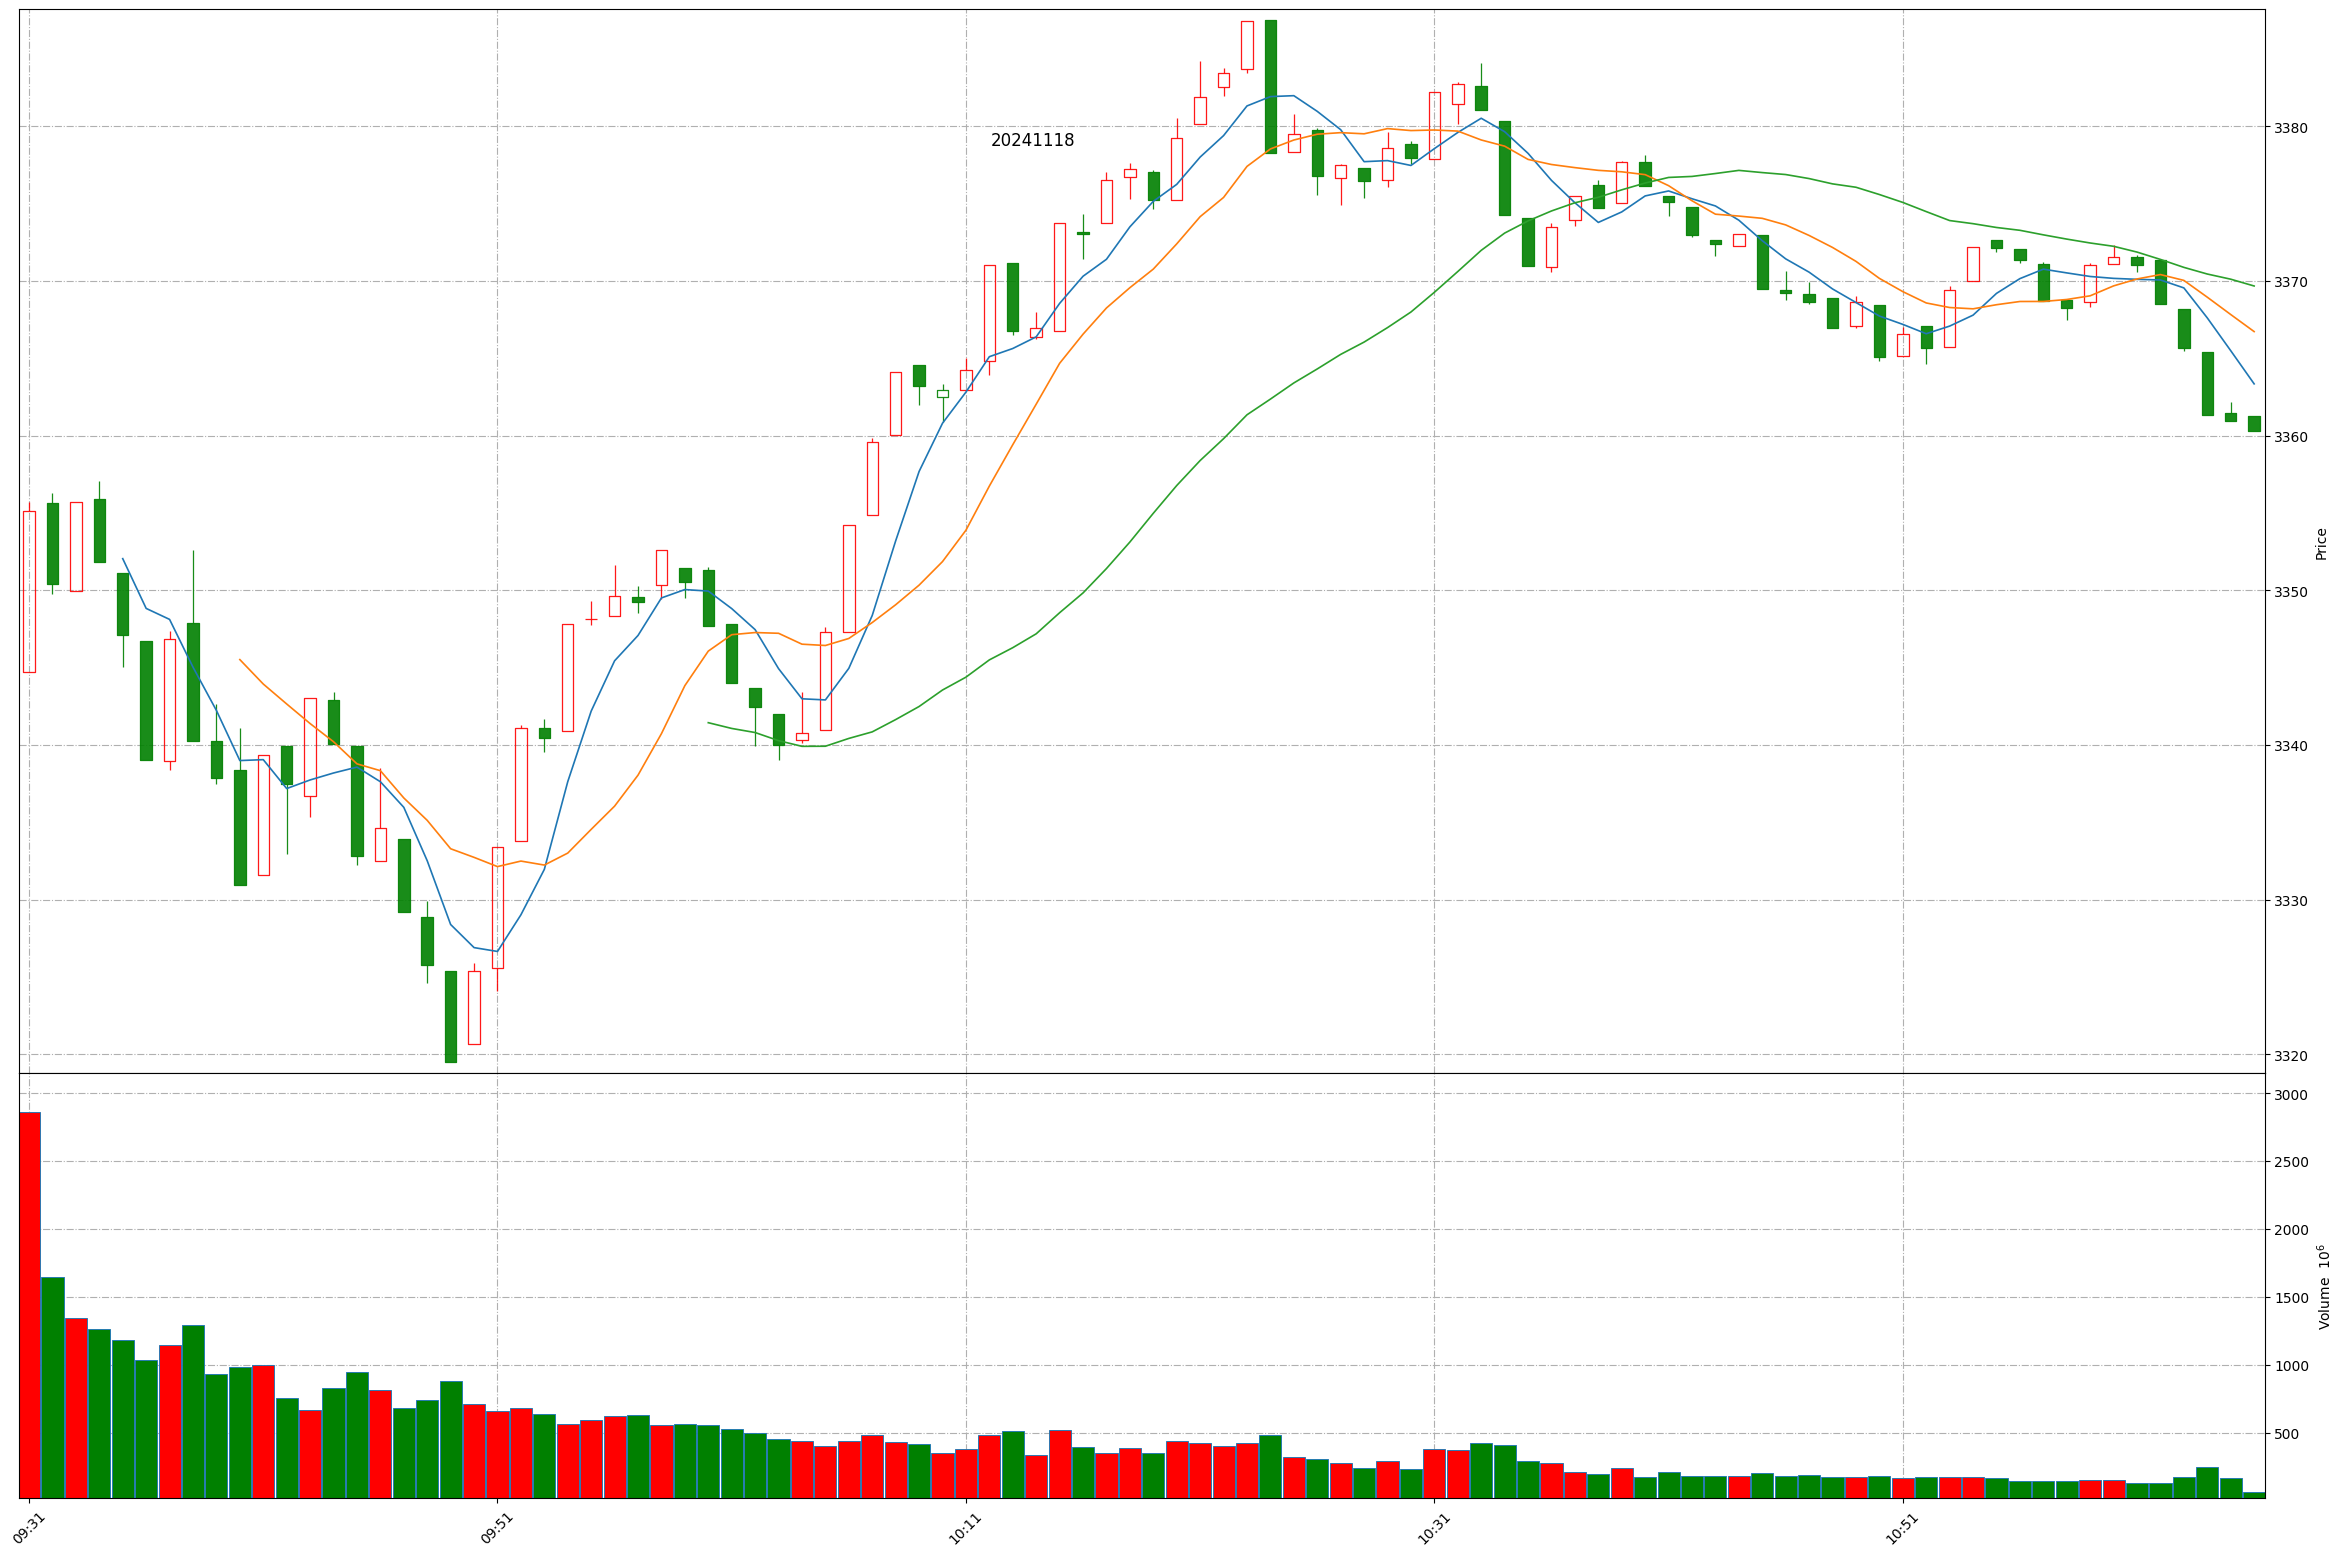
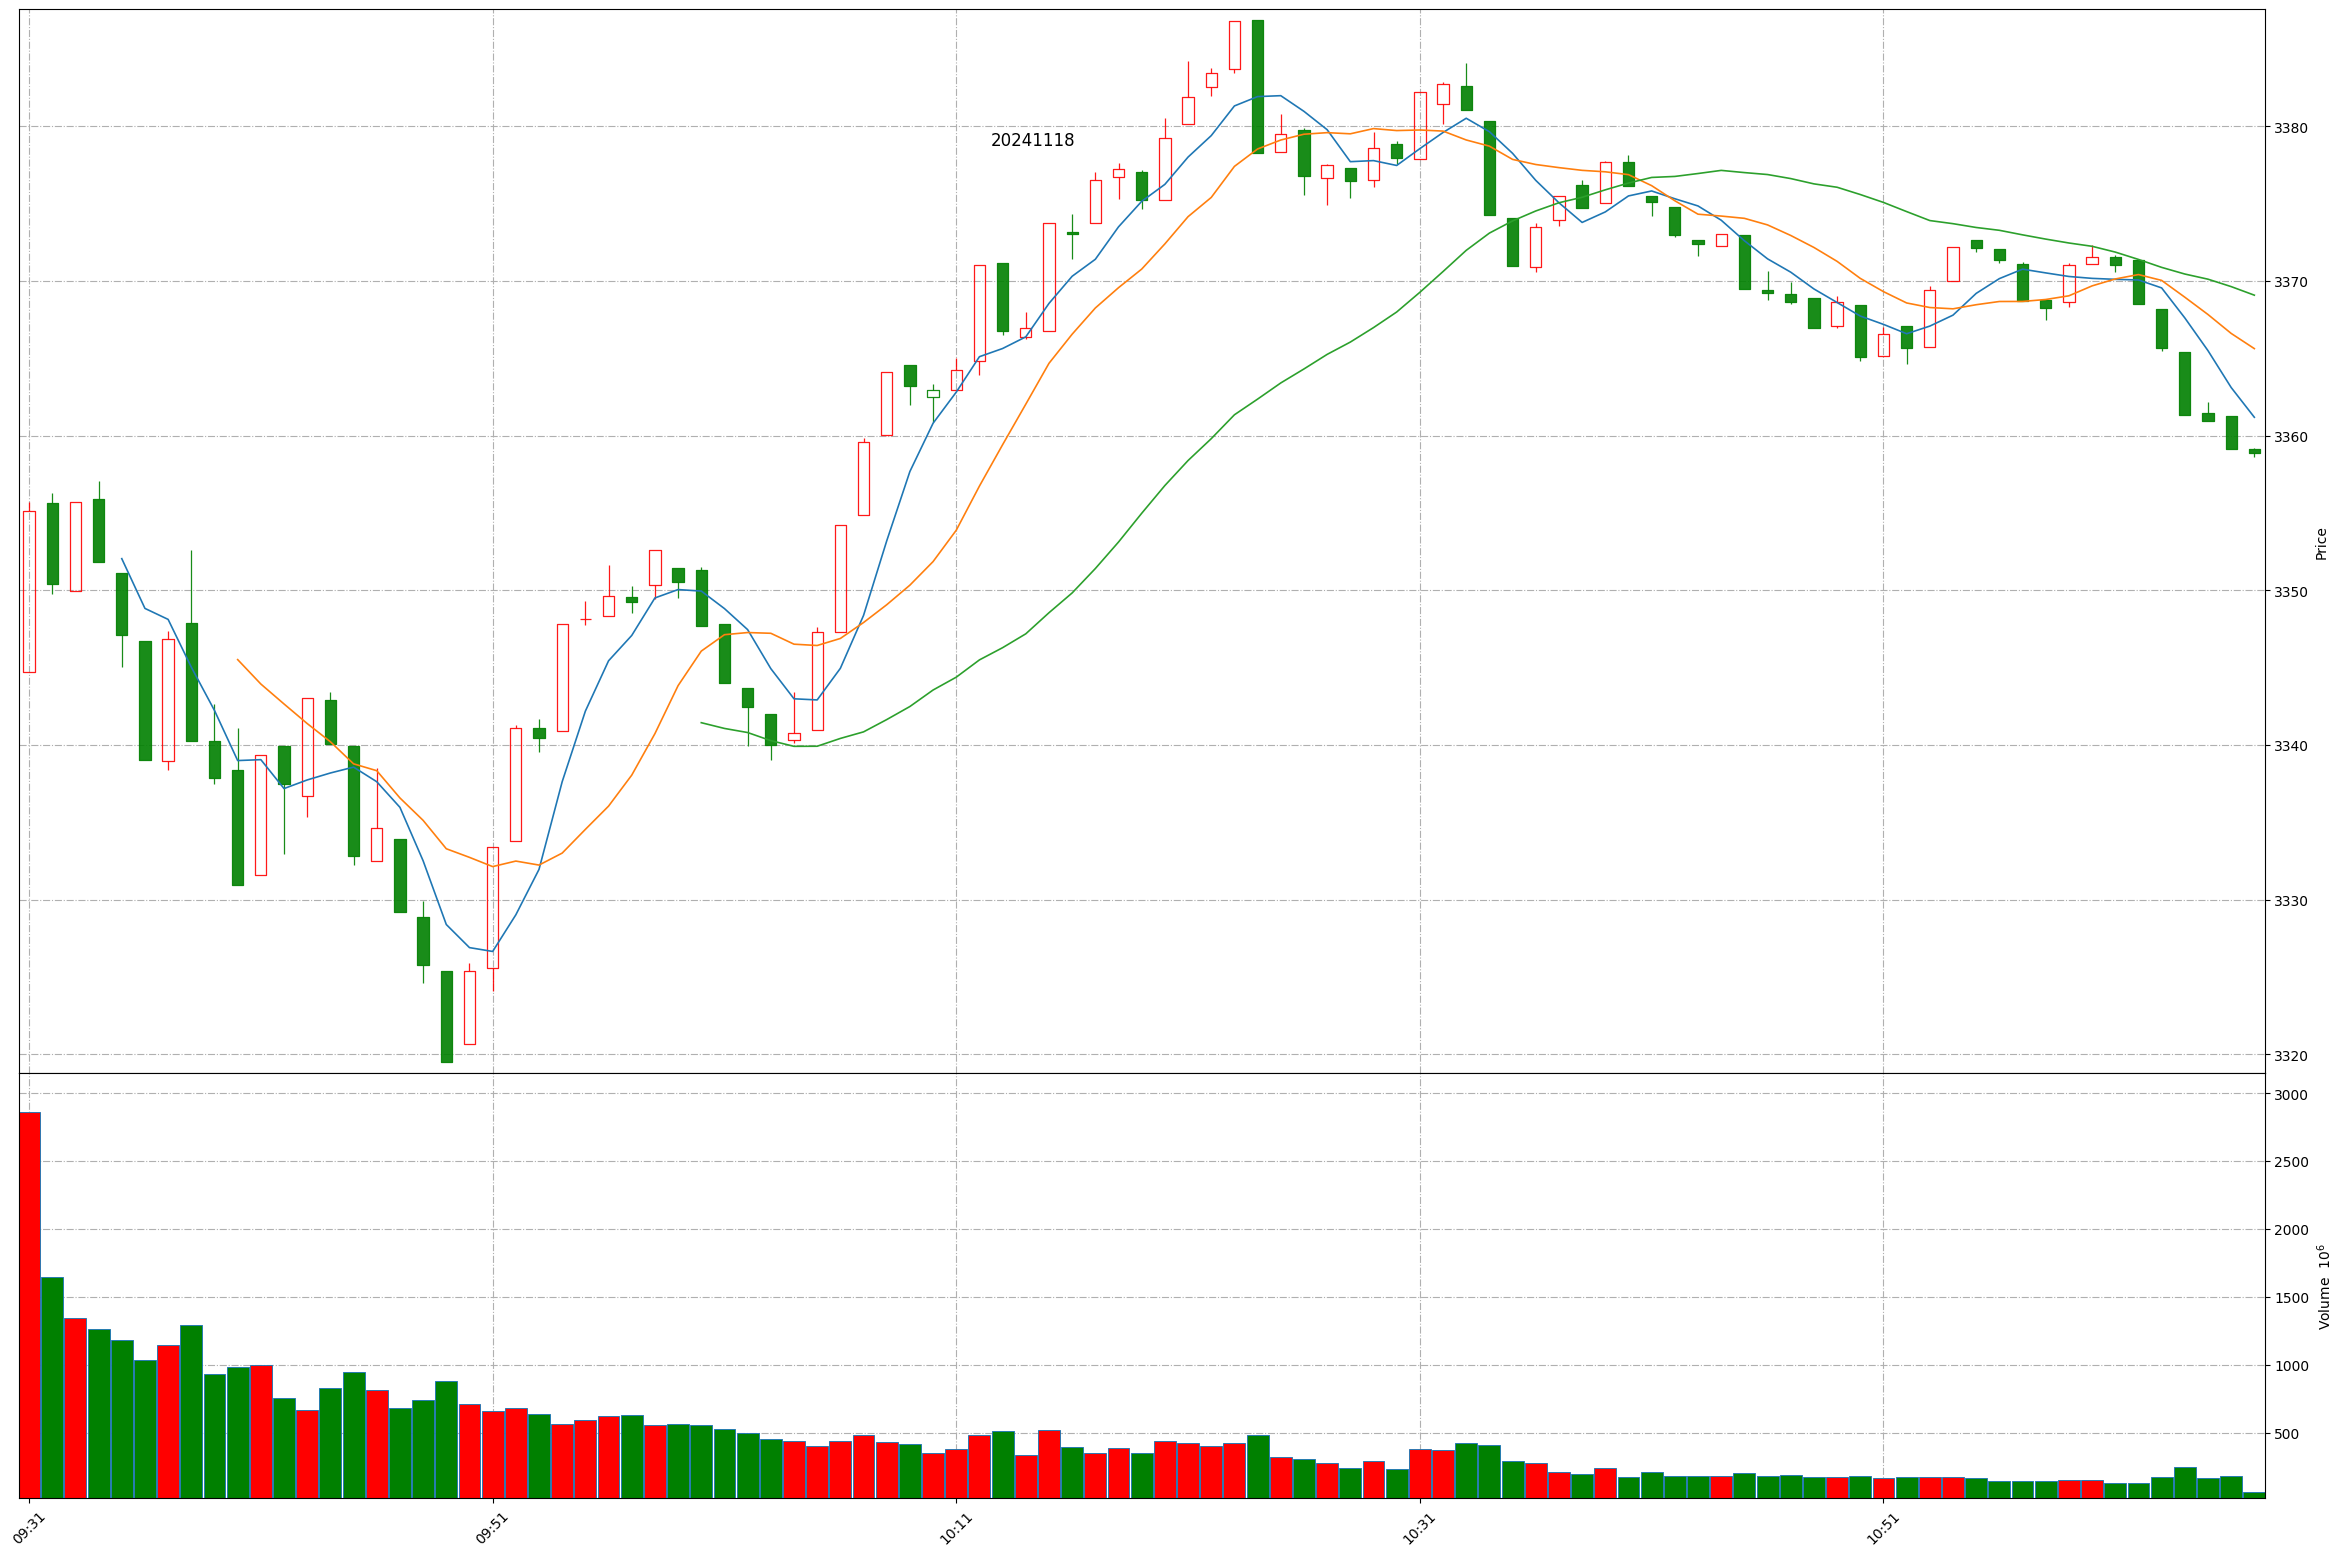
Github action update at 2024-11-18 11:06:47.

diff --git a/README.md b/README.md
@@ -1,11 +1,11 @@
 
 # Daily-A-share-market-quotes 每日 A 股指数（5min 更新）- 20241118
 
-### 上证指数 20241118 11:5
+### 上证指数 20241118 11:6
 ![](./fig/2024/11/20241118-sh000001.png)
 
-### 深证成指 20241118 11:5
+### 深证成指 20241118 11:6
 ![](./fig/2024/11/20241118-sz399001.png)
 
-### 北证50 20241118 11:5
+### 北证50 20241118 11:6
 ![](./fig/2024/11/20241118-bj899050.png)
